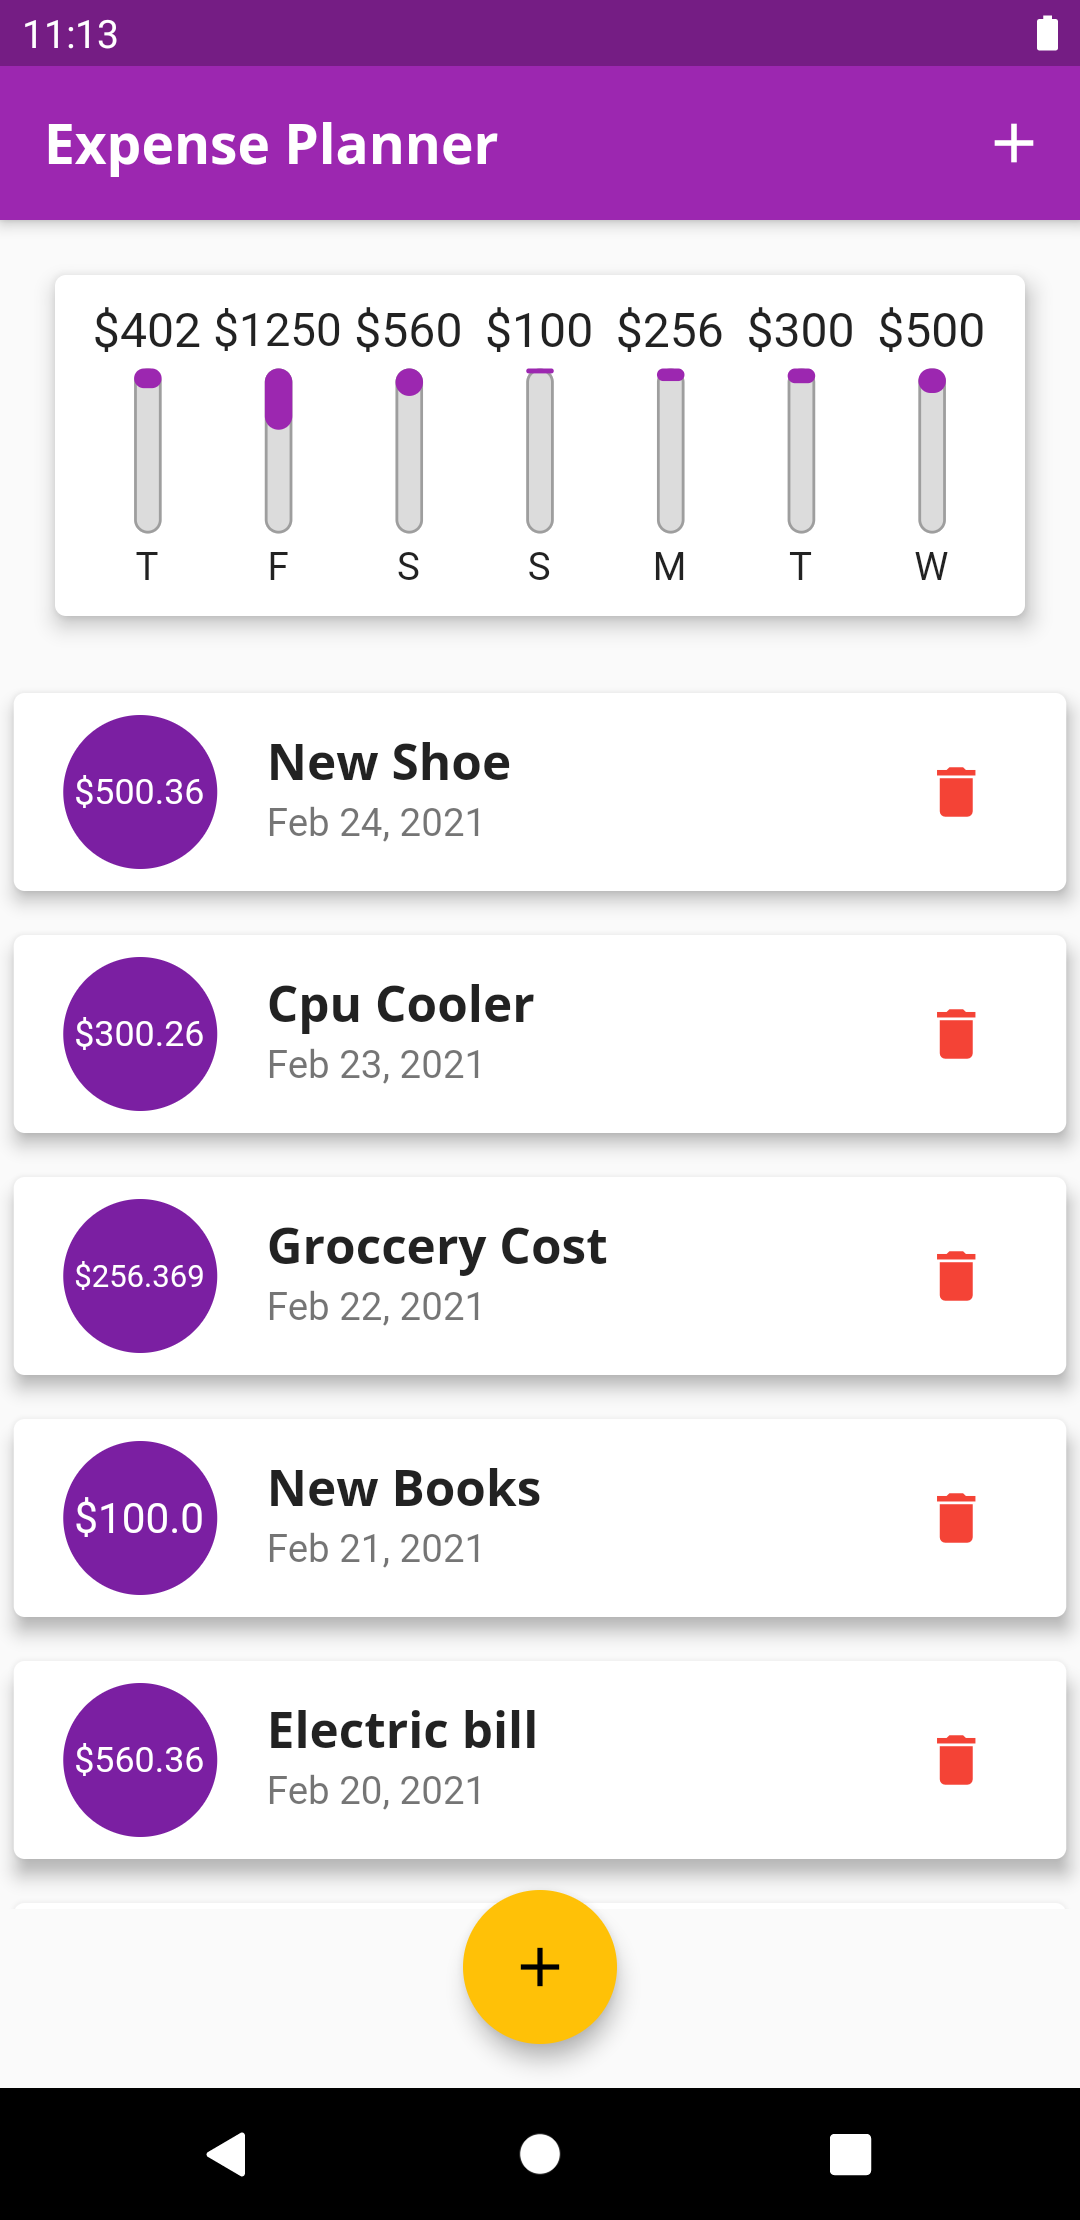
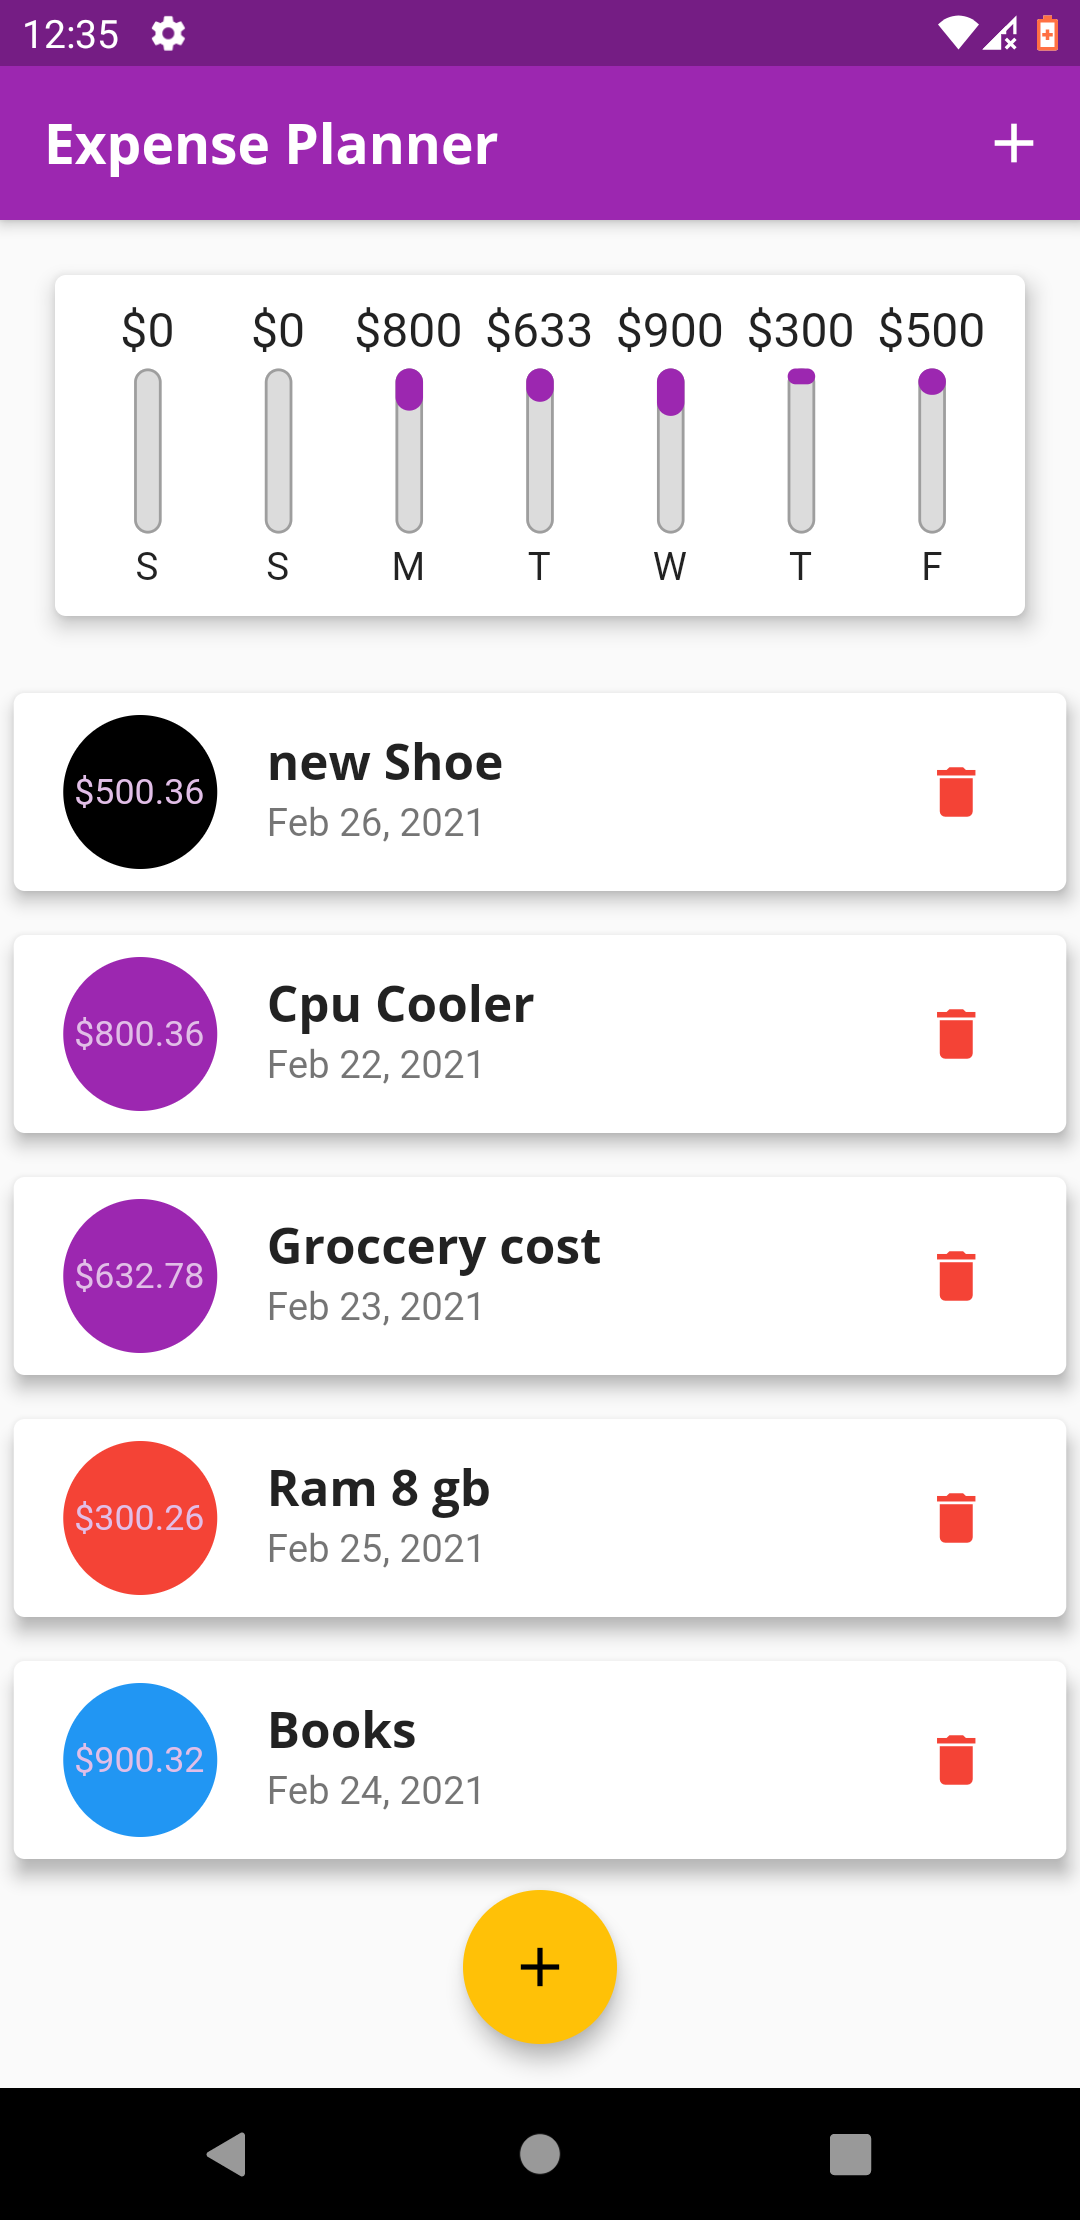
listview item statful scenario using valuekey

diff --git a/lib/widget/transactionItem.dart b/lib/widget/transactionItem.dart
@@ -1,8 +1,10 @@
+import 'dart:math';
+
 import 'package:flutter/material.dart';
 import '../model/transaction.dart';
 import 'package:intl/intl.dart';
 
-class TransactionItem extends StatelessWidget {
+class TransactionItem extends StatefulWidget {
   const TransactionItem({
     Key key,
     @required this.transactionItem,
@@ -14,26 +16,46 @@ class TransactionItem extends StatelessWidget {
   final Function deleteTx;
 
   @override
+  _TransactionItemState createState() => _TransactionItemState();
+}
+
+class _TransactionItemState extends State<TransactionItem> {
+  Color _bgcolor;
+  @override
+  void initState() {
+    const availablecolor = [
+      Colors.red,
+      Colors.black,
+      Colors.blue,
+      Colors.purple
+    ];
+    _bgcolor = availablecolor[Random().nextInt(4)];
+
+    super.initState();
+  }
+
+  @override
   Widget build(BuildContext context) {
     return Card(
       margin: EdgeInsets.symmetric(horizontal: 5, vertical: 8),
       elevation: 5,
       child: ListTile(
         leading: CircleAvatar(
+          backgroundColor: _bgcolor,
           radius: 30,
           child: Padding(
             padding: const EdgeInsets.all(6.0),
-            child: FittedBox(child: Text('\$${transactionItem.amount}')),
+            child: FittedBox(child: Text('\$${widget.transactionItem.amount}')),
           ),
         ),
-        title: Text(transactionItem.title,
+        title: Text(widget.transactionItem.title,
             style: Theme.of(context).textTheme.headline6),
-        subtitle: Text(DateFormat.yMMMd().format(transactionItem.date)),
+        subtitle: Text(DateFormat.yMMMd().format(widget.transactionItem.date)),
         trailing: IconButton(
             icon: Icon(Icons.delete),
             color: Theme.of(context).errorColor,
             // jokhn kono onpress e direct execution hoi mane kono argument expect kore na oi function tokhn direct pointer kore dilei hoi oi function er r na hole ()=> pointervalue(expected argument)
-            onPressed: () => deleteTx(transactionItem.id)),
+            onPressed: () => widget.deleteTx(widget.transactionItem.id)),
       ),
     );
   }

diff --git a/lib/widget/transaction_list.dart b/lib/widget/transaction_list.dart
@@ -27,14 +27,13 @@ class TransactionList extends StatelessWidget {
                       child: Image.asset('assets/images/waiting.png'))
                 ],
               )
-            : ListView.builder(
-                itemBuilder: (ctx, index) {
-                  return TransactionItem(
-                      transactionItem: transactionList[
-                          index], // list er vitor index dore item er jonno listtile e pass korci 1 ta 1 ta kore
-                      deleteTx: deleteTransactionList);
-                },
-                itemCount: transactionList.length,
-              ));
+            : ListView(
+                children: transactionList
+                    .map((data) => TransactionItem(
+                          key: ValueKey(data.id),
+                          transactionItem: data,
+                          deleteTx: deleteTransactionList,
+                        ))
+                    .toList()));
   }
 }
